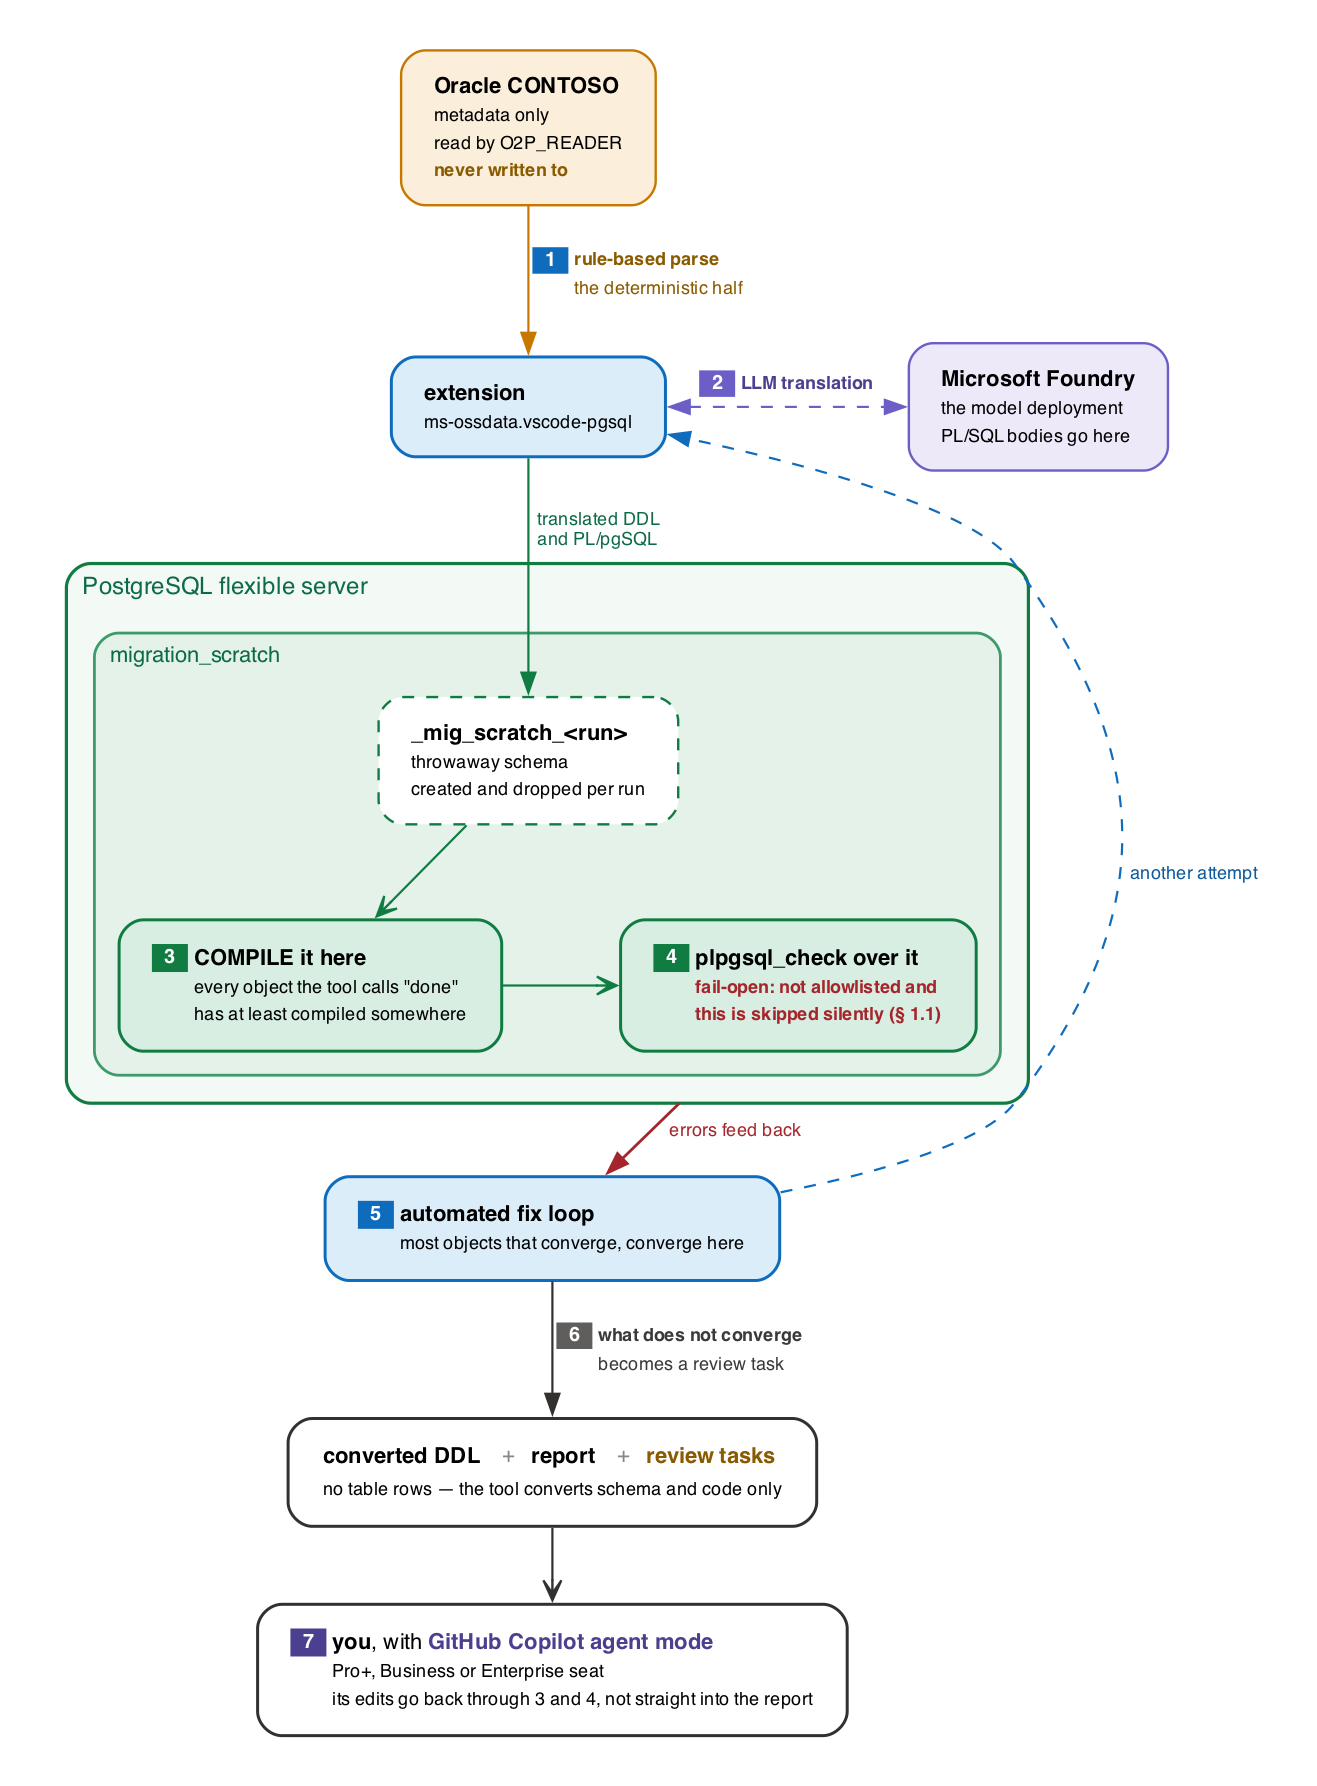
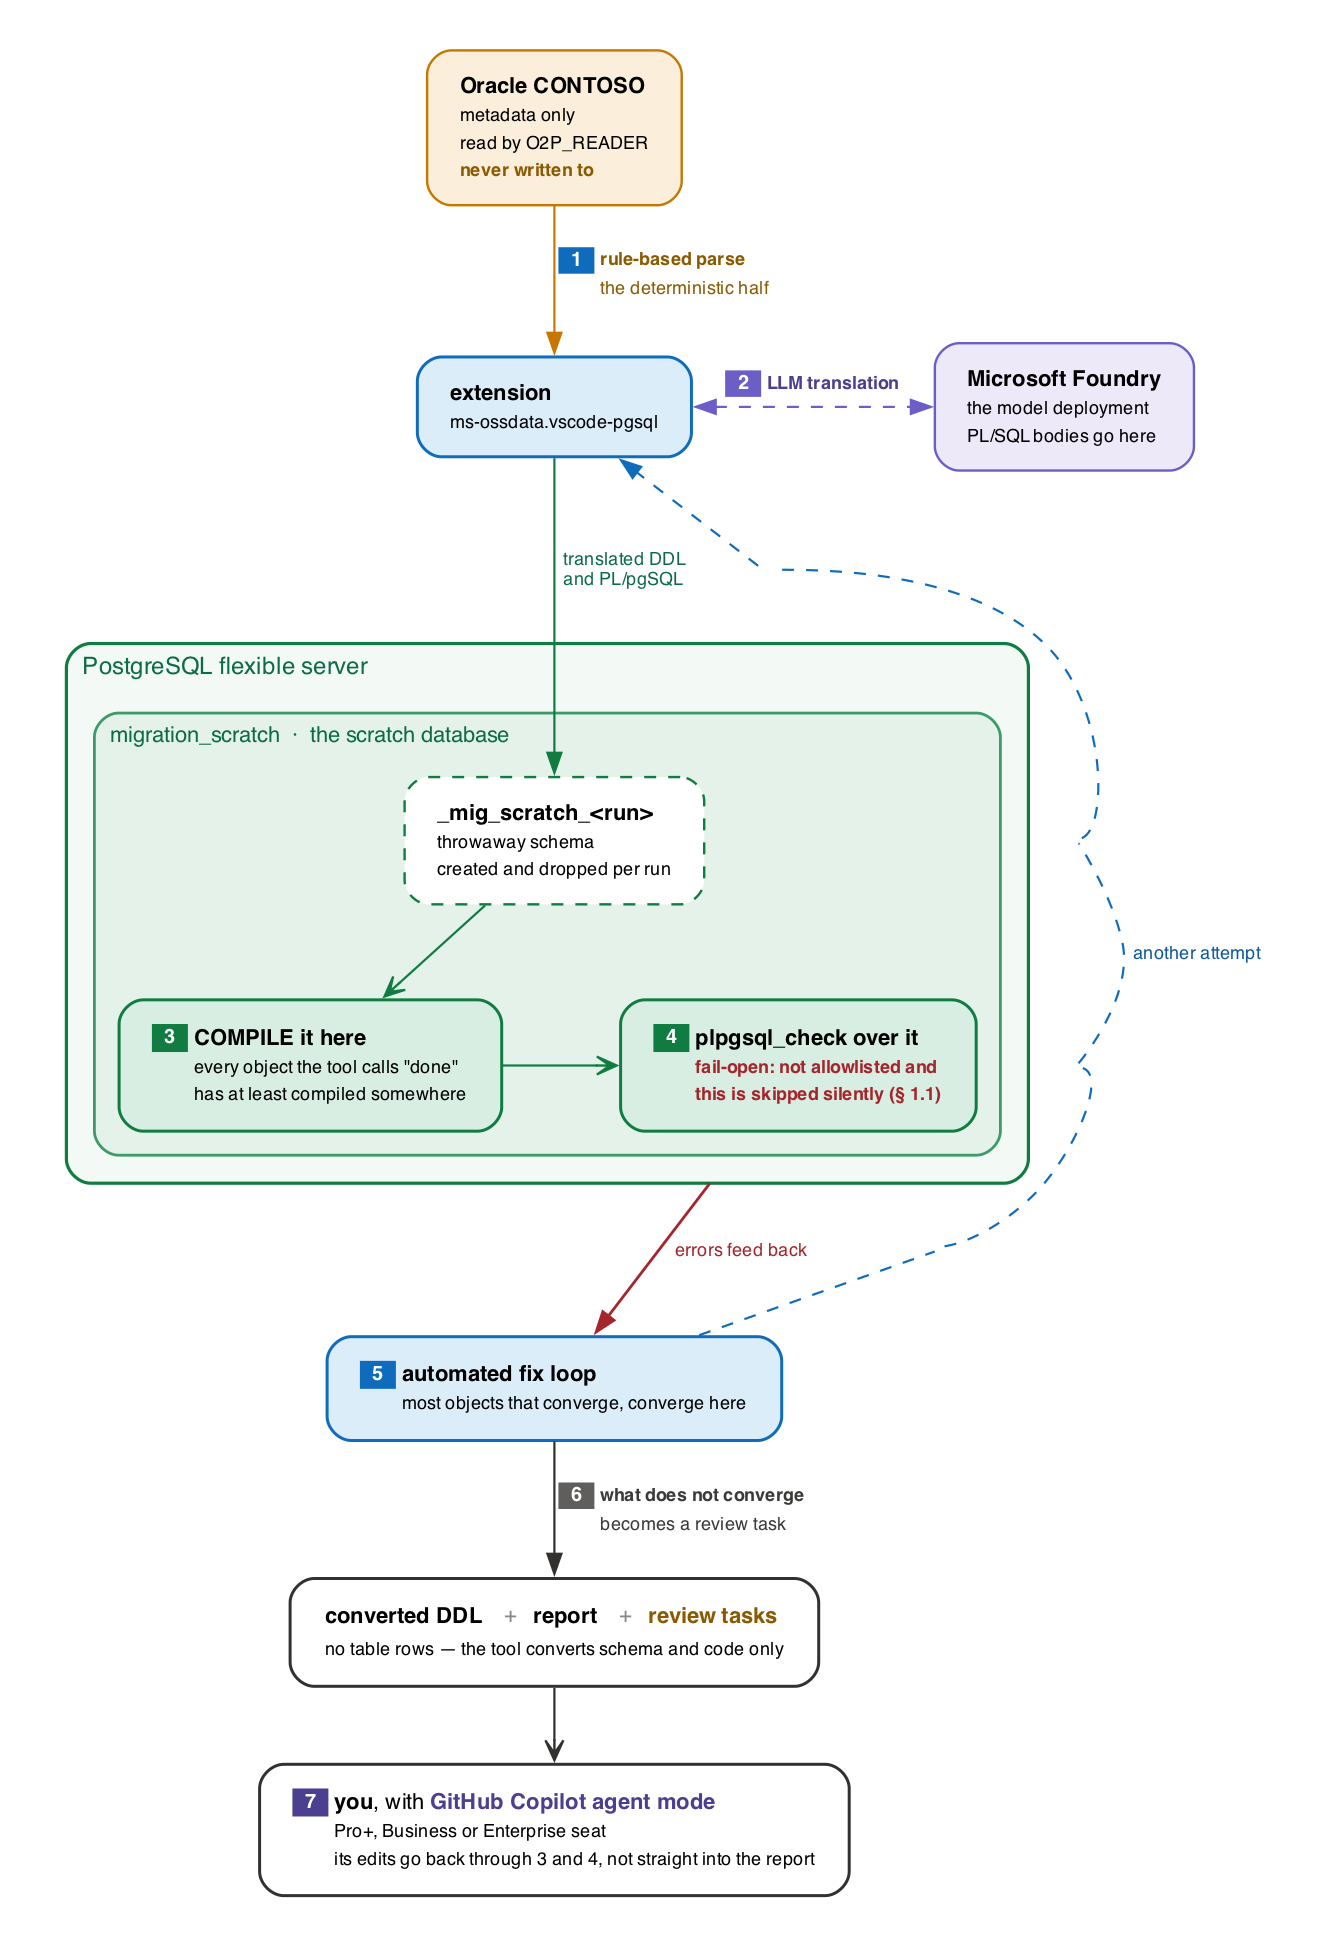
The docs named a NAT gateway that does not exist
01-deploy-infrastructure.md gave the NAT gateway as o2p-natgw, in the
resource table and again in a sample transcript. infra/modules/network.bicep
creates nat-${vnetName}, and main.bicep sets vnetName to ${namePrefix}-vnet,
so the resource is nat-o2p-vnet with public IP nat-o2p-vnet-pip. Anyone who
went looking for o2p-natgw would not have found it.

Found while drawing the network diagram: the diagram could not name the
gateway without either printing a name that does not exist or contradicting
the table two lines below it, so it left the band unnamed and said so. Both
are corrected here and the diagram now carries the real names.

The two pipeline diagrams also gained real fixes. The retry edge in
conversion-pipeline was routed straight through the PostgreSQL server box -
74 pixels of it inside the cluster boundary - which drew the fix loop as
though it happened inside the database, the one claim that page exists not
to make. The network topology lost a pair of egress arrows that bowed around
the Bastion cluster and closed into a faint oval reading as a rendering
fault; the same fact is now stated in words, and states which subnet is
deliberately excluded, which the arrows could not.

Also: architecture.dot said o2p-pg-<unique> where every other file in the
set says <uniq>.

Changed region(s): [[0.0311, 0.0, 0.9028, 0.9854], [0.8405, 0.4619, 0.9339, 0.4927]]

diff --git a/docs/01-deploy-infrastructure.md b/docs/01-deploy-infrastructure.md
@@ -36,7 +36,7 @@ Everything lands in a single resource group, `AZ_RESOURCE_GROUP` (default
 | Jumpbox subnet | `10.42.2.0/24` | The VS Code client | Separate subnet so you can apply different NSG rules to the client than to the database |
 | PostgreSQL subnet | `10.42.3.0/24` | Delegated to the flexible server | VNet integration means the server has **no public endpoint at all** |
 | Bastion subnet | `10.42.4.0/26` | Azure Bastion | Must be named `AzureBastionSubnet` and be /26 or larger. Azure's rule, not ours |
-| NAT gateway + public IP | `o2p-natgw` | Outbound internet for both VMs | Azure retired default outbound access in September 2025. Without this the Oracle image pull and the VS Code Marketplace both hang |
+| NAT gateway + public IP | `nat-o2p-vnet` + `nat-o2p-vnet-pip` | Outbound internet for both VMs | Azure retired default outbound access in September 2025. Without this the Oracle image pull and the VS Code Marketplace both hang |
 | Oracle VM | `o2p-oracle-vm` | **The simulated on-premises source.** Runs Oracle Database Free 23ai in a container | Ubuntu 22.04, `Standard_D4s_v5`, 128 GiB Premium SSD data disk for the datafiles. A VM, not a managed service, because the point is to migrate *from a server you control* — see [architecture.md](architecture.md#2-why-an-oracle-vm-and-not-a-managed-service) |
 | PostgreSQL flexible server | `o2p-pg-<uniq>` | Conversion target and scratch host | PostgreSQL 16. Fifteen is the floor; see below |
 | Target database | `contoso_store` | Where the converted schema lands | Schema `contoso` inside it |
@@ -145,7 +145,7 @@ the interesting part:
   [ .. ] starting o2p-deploy-20260902-114233
   [ ok ] Resources/deployments                              deploy-network
   [ ok ] Network/virtualNetworks                            o2p-vnet
-  [ ok ] Network/natGateways                                o2p-natgw
+  [ ok ] Network/natGateways                                nat-o2p-vnet
   [ .. ] DBforPostgreSQL/flexibleServers                    o2p-pg-h7k2mq4xw3abc
   [ ok ] Compute/virtualMachines                            o2p-oracle-vm
   [ ok ] CognitiveServices/accounts                         o2p-foundry-h7k2mq4xw3abc
